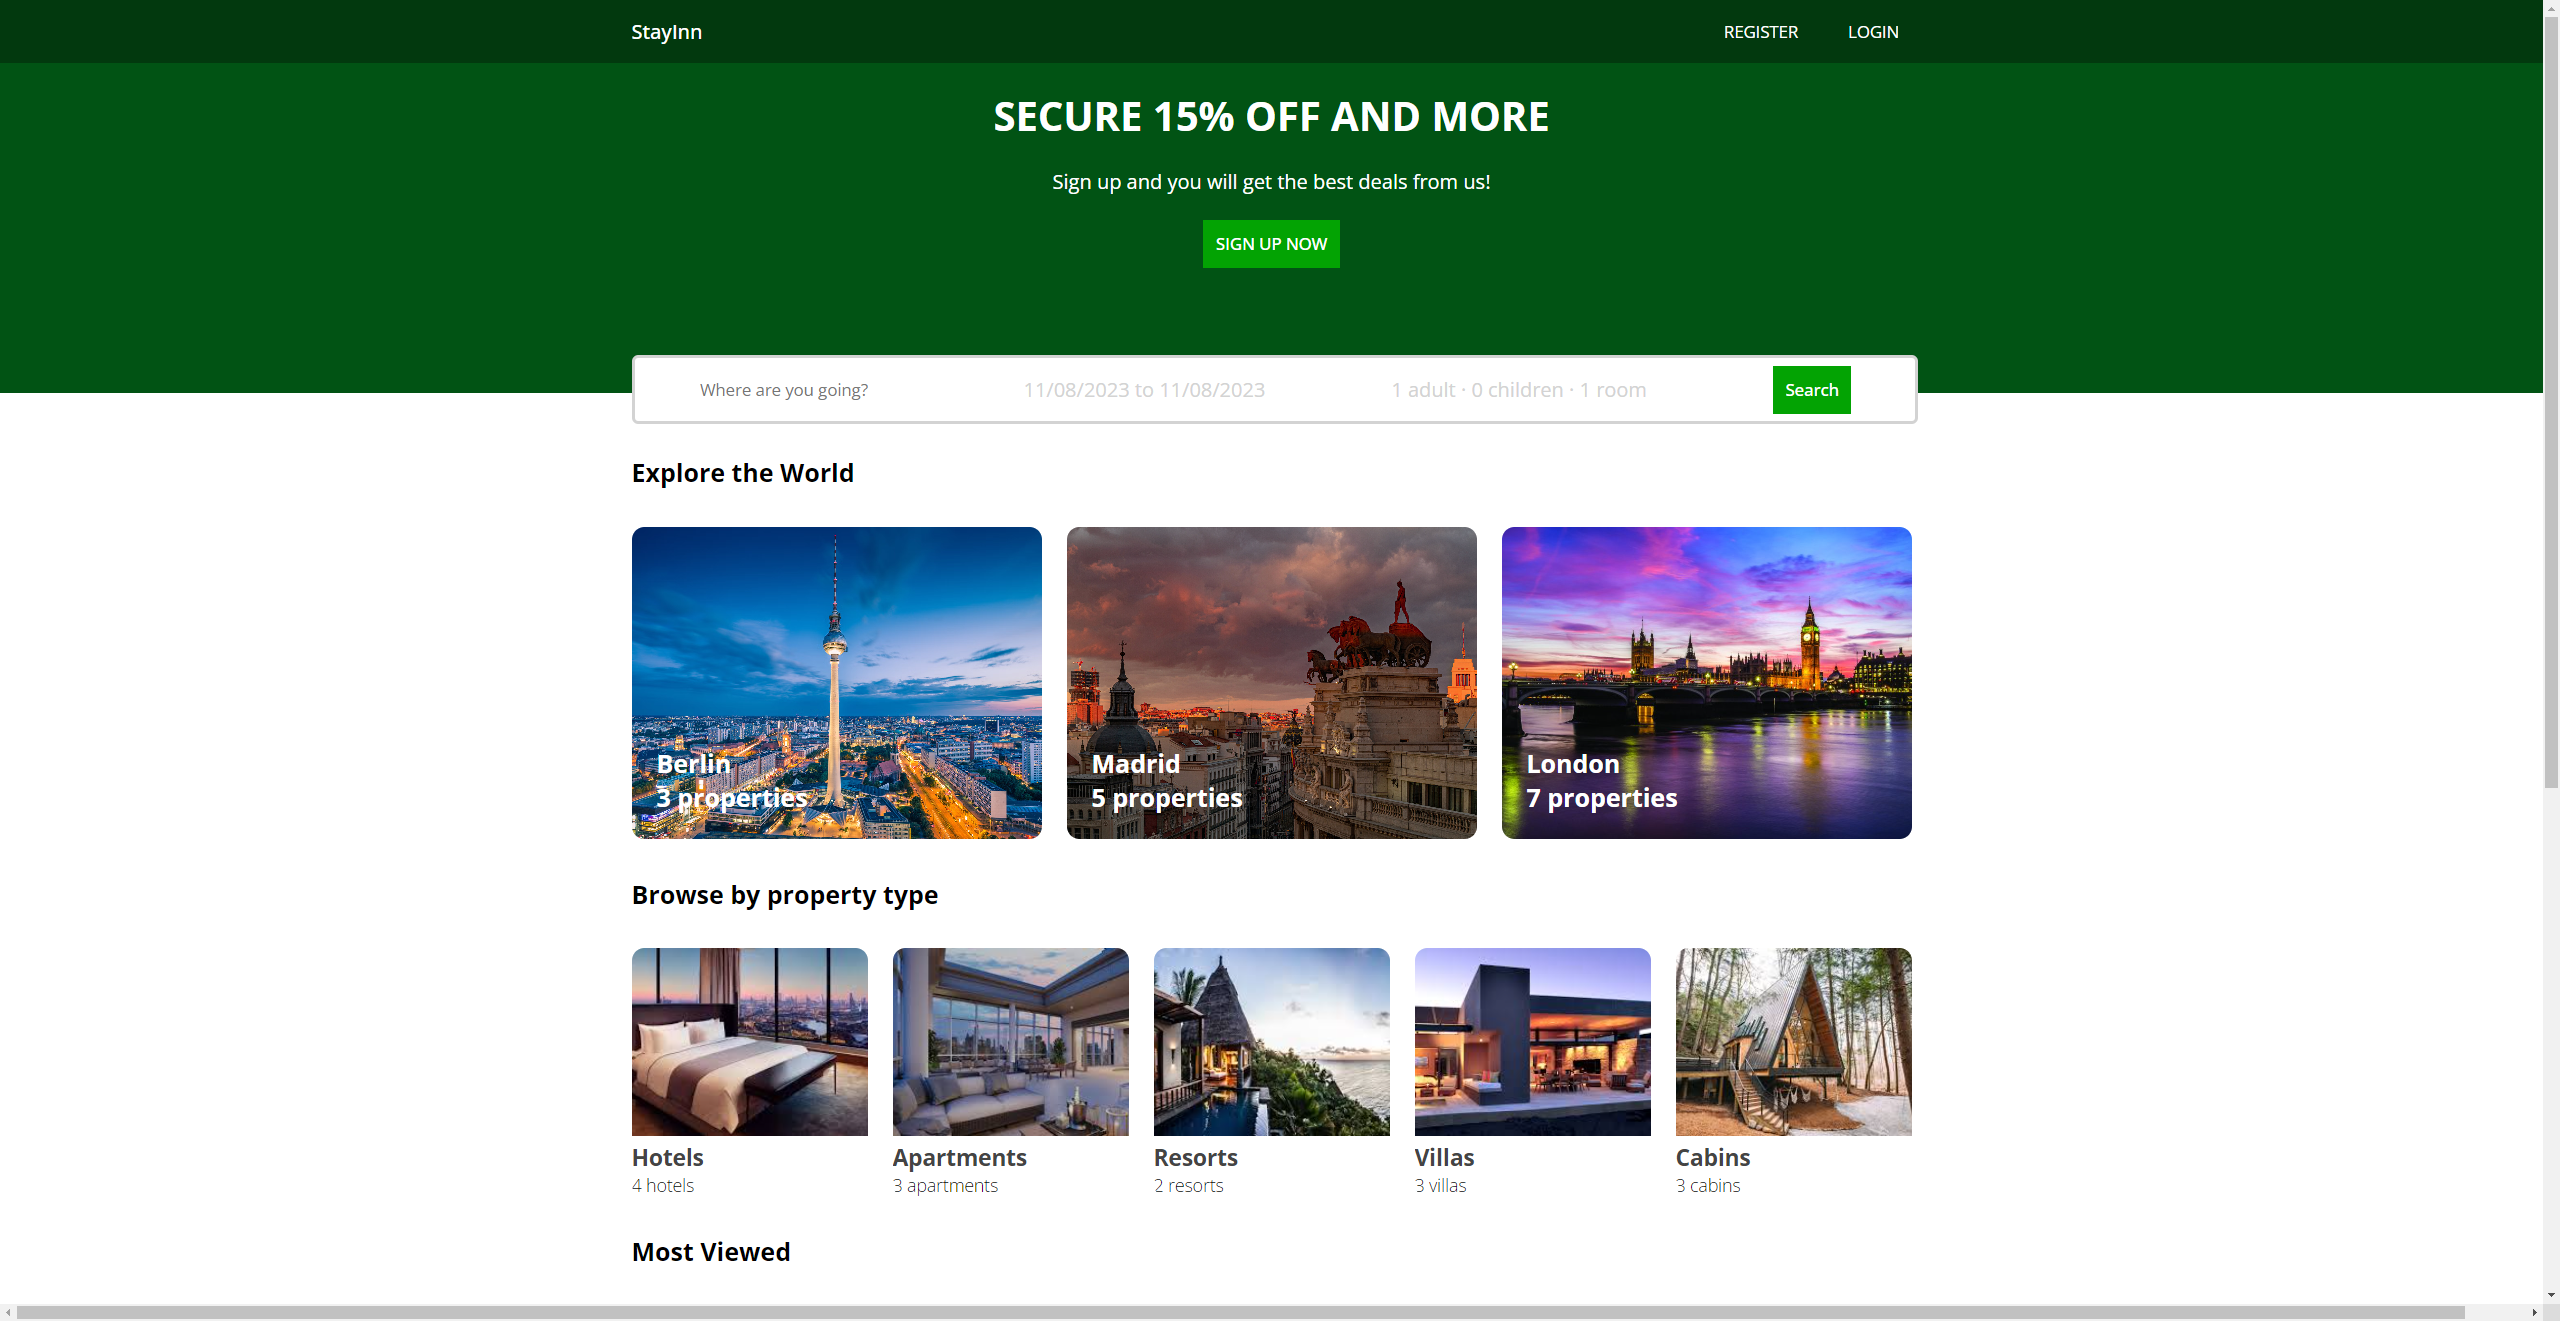
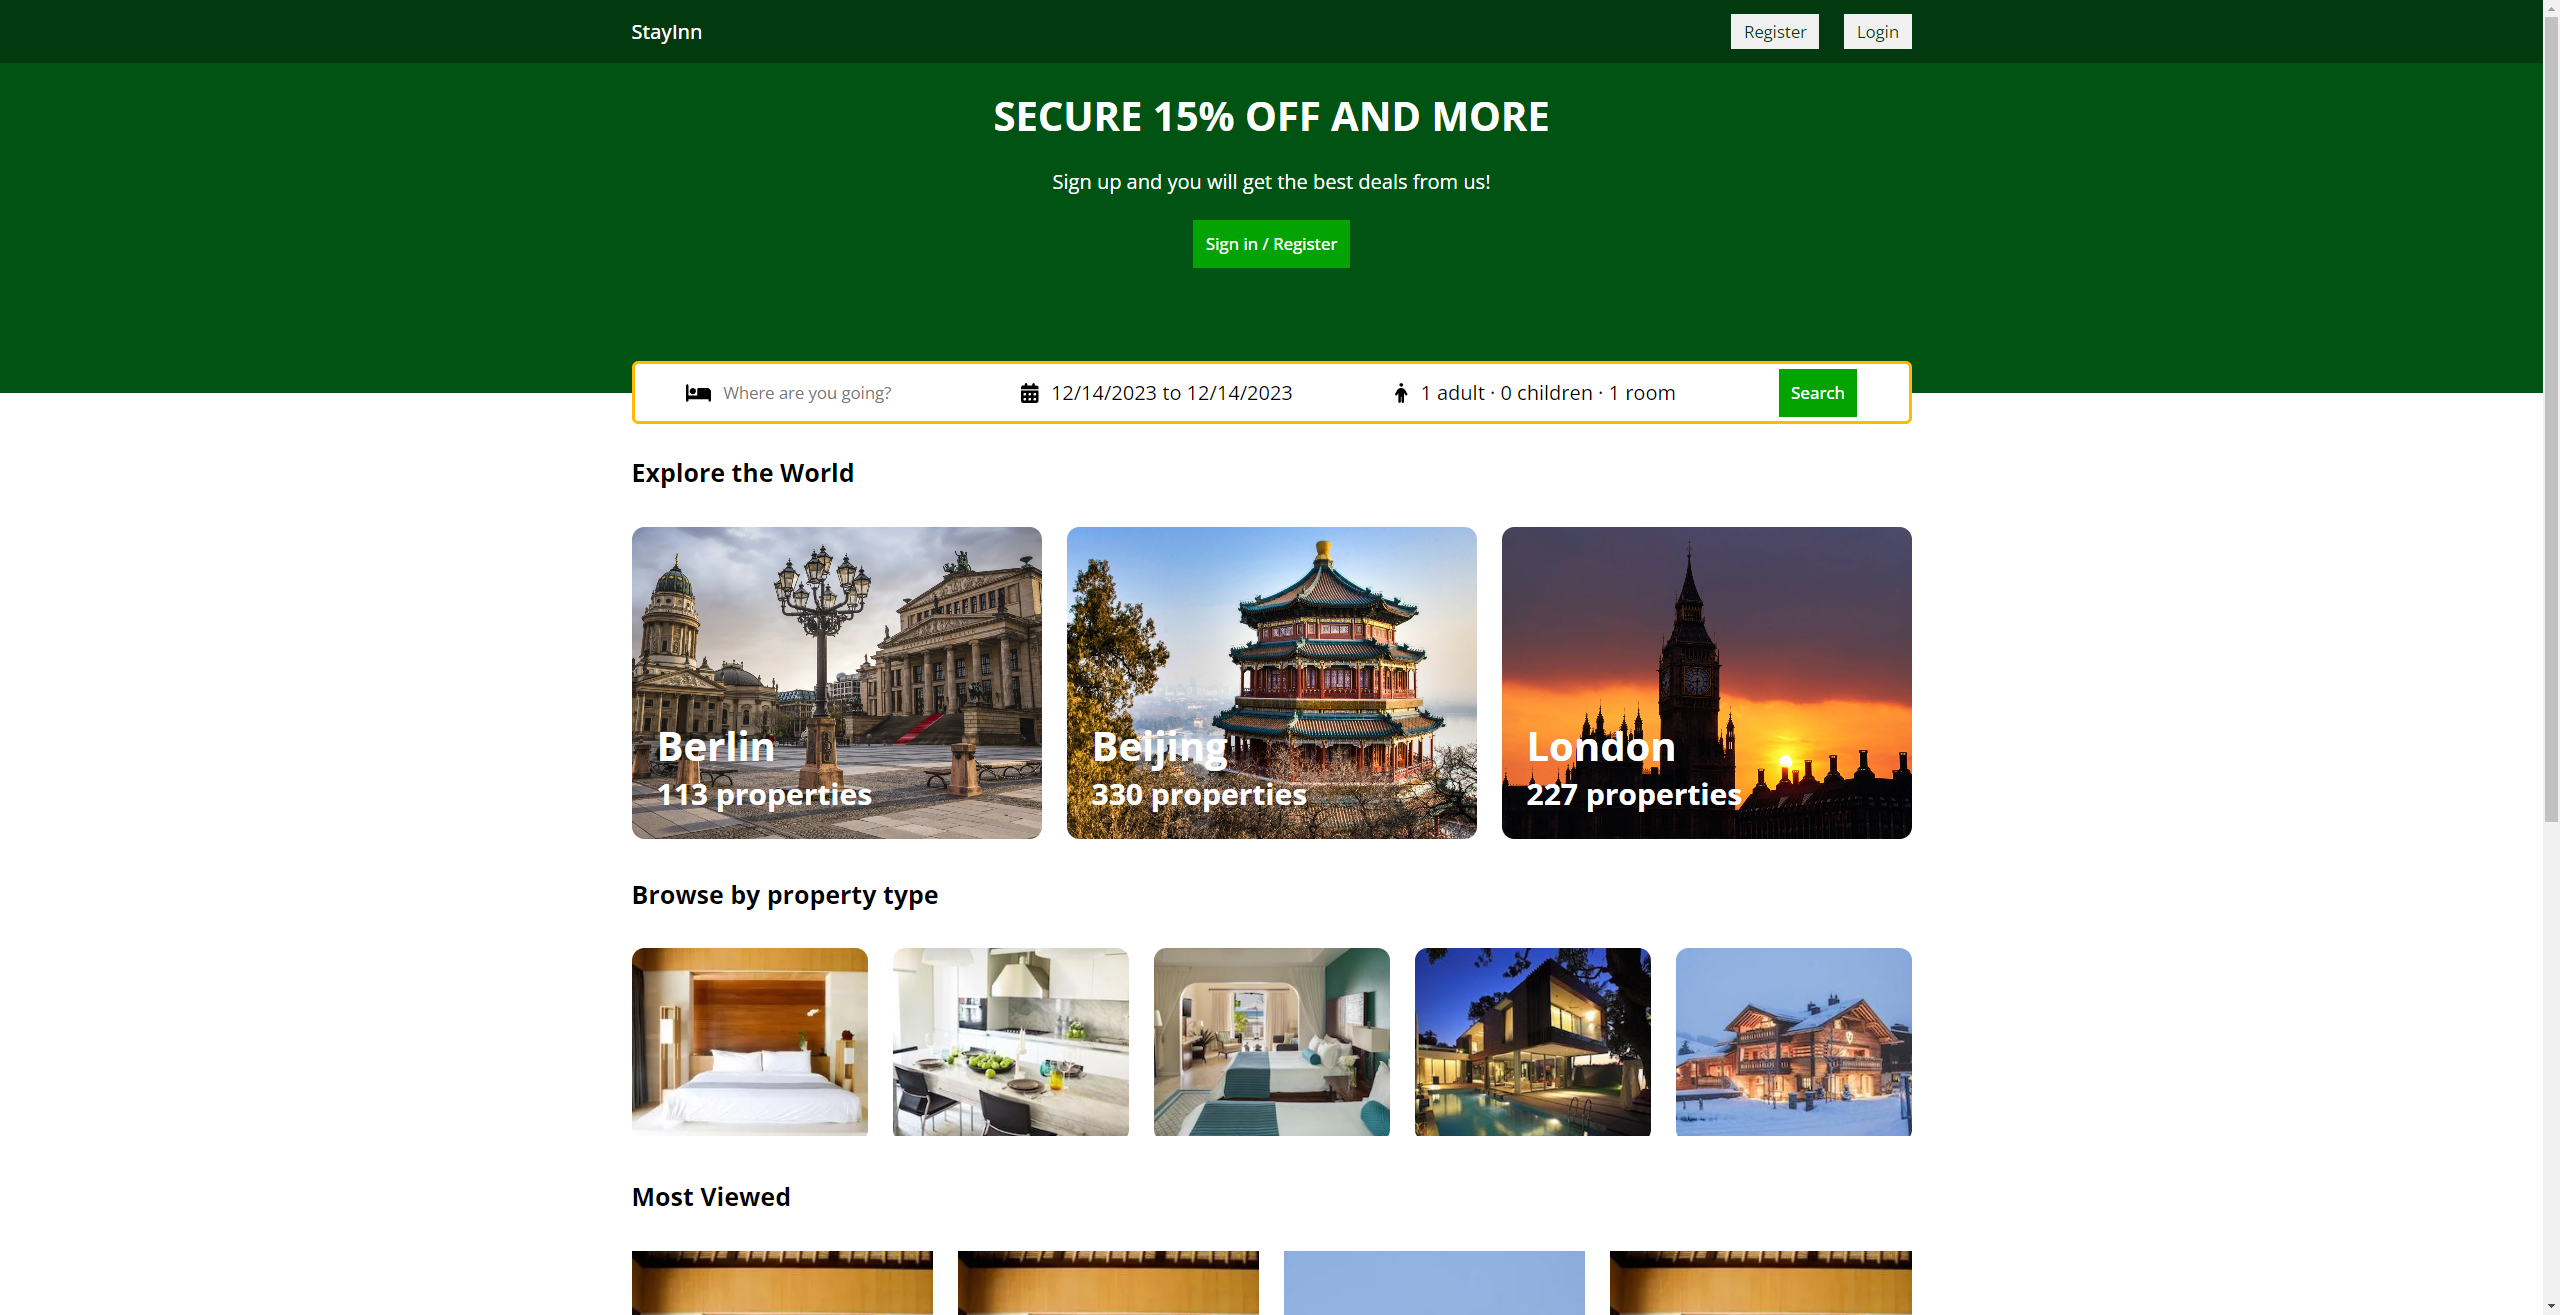
readme and screenshots update

diff --git a/README.md b/README.md
@@ -20,13 +20,11 @@ Here are updates to our full-stack web-based hotel booking platform, enhancing t
 
 * Advanced Search Functionality: Users can now effortlessly search for rooms using a specific number of adults and kids, making it easier to find the perfect accommodation options.
 
-* Improved Pagination Navigation: A new feature in the pagination section allows users to jump directly to a targeted page, significantly improving navigation efficiency.
-
 * Keyboard Command Feature: To enhance user experience, we've implemented keyboard command functionality for easy navigation and interaction with the platform.
 
-* Enhanced Sign-Up Visibility: The sign-up button has been redesigned for higher visibility, aiding new users in easily creating an account.
+* Enhanced Sign-Up Visibility: The sign-up page has been redesigned for higher visibility, aiding new users in easily creating an account.
 
-* Category Button Visual Update: We have enhanced the category button’s visual effects to clearly indicate page changes, ensuring a more intuitive user interface.
+* Images Card Update: We've updated the location photos on the homepage to make the image cards more attractive.
 
 * Admin Page Layout Redesign: The admin page layout has been completely redesigned for improved usability and management efficiency.
 
@@ -46,8 +44,14 @@ cd api => yarn install or npm install => yarn start or npm start
 ```
 * Place the .env file in the api folder
 
+### Demo Link
+[StayInn](https://booking-frontend-inys.onrender.com/)
+
 ### Design Document
-[Project 3 - StayInn-  Web Booking App.pdf](https://github.com/CERKO12/StayInn--Web-booking-application/files/13304354/Project.3.-.StayInn-.Web.Booking.App.pdf)
+[StayInn - Web Booking App.pdf](https://github.com/CERKO12/StayInn--Web-booking-application/files/13304354/Project.3.-.StayInn-.Web.Booking.App.pdf)
+
+### Slides
+[StayInn_2.0](https://docs.google.com/presentation/d/1x2OU08ppwFTR2RxvXgG4n58KtHw2f8T6PQ1r1Q6rL9U/edit?usp=sharing)
 
 ### Class Link
 [CS5610-Web Development](https://johnguerra.co/classes/webDevelopment_fall_2023/)
@@ -65,3 +69,7 @@ Search lists
 
 Reserve page
 ![reserve](screenshots/5.png)
+
+Admin Page
+![admin](screenshots/6.png)
+![admin](screenshots/7.png)
